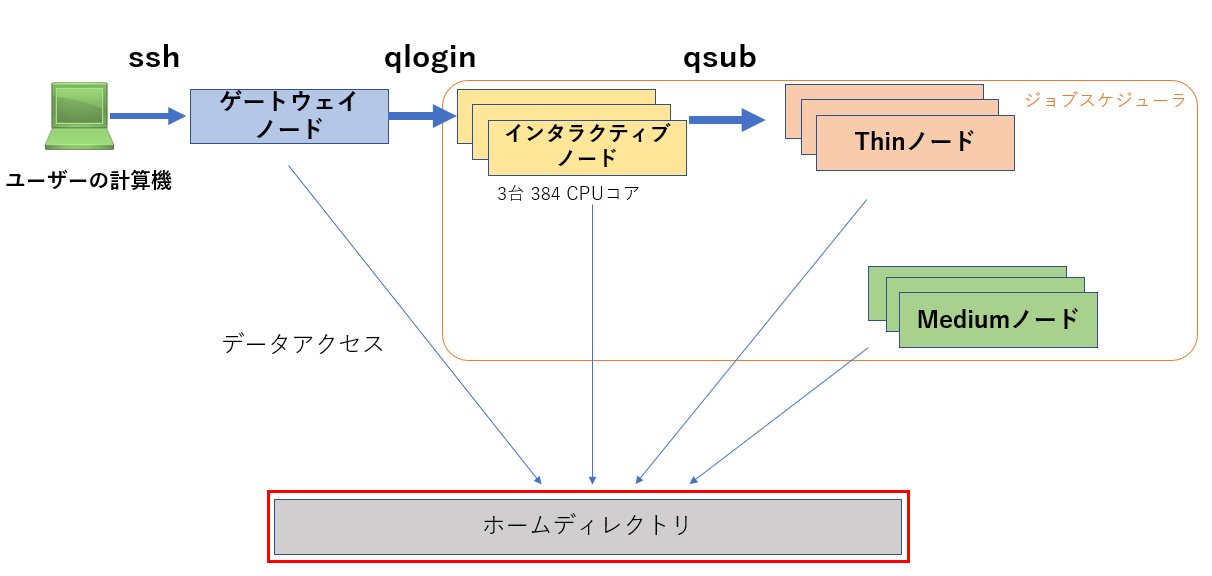
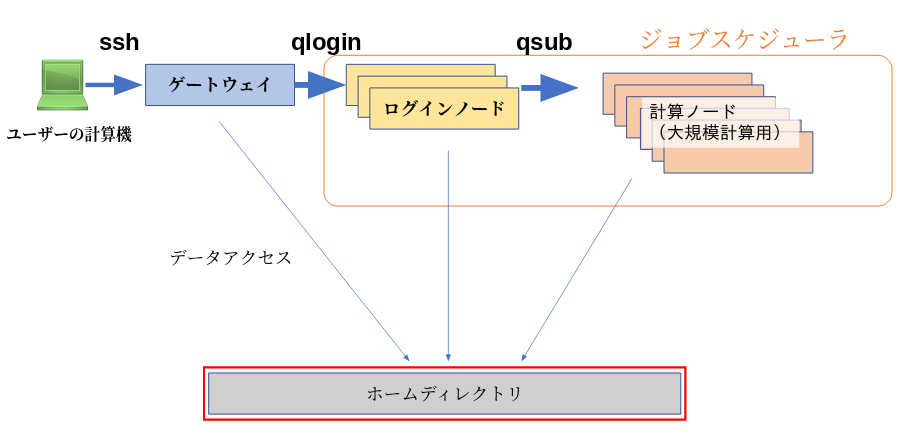
Add GAD documents

diff --git a/sidebars.js b/sidebars.js
@@ -44,8 +44,7 @@ module.exports = {
             "general_analysis_division/ga_introduction",
             "general_analysis_division/ga_application",
             "general_analysis_division/ga_login",
-            "general_analysis_division/ga_interactive",
-            "general_analysis_division/ga_batch",
+            "general_analysis_division/ga_usage",
             "general_analysis_division/ga_transfer",
             "general_analysis_division/ga_lustre",
         ],
@@ -53,8 +52,7 @@ module.exports = {
             "personal_genome_division/pg_introduction",
             "personal_genome_division/pg_application",
             "personal_genome_division/pg_login",
-            "personal_genome_division/pg_interactive",
-            "personal_genome_division/pg_batch",
+            "personal_genome_division/pg_usage",
             "personal_genome_division/pg_transfer",
             "general_analysis_division/ga_lustre",
         ],
@@ -89,7 +87,7 @@ module.exports = {
         ],
         "ユーザー登録・変更": [
             "application/registration",
-            "application/resource_extention",
+            "application/resource_extension",
             "application/ssh_keys",
             "application/renewal",
         ],

diff --git a/docs/general_analysis_division/ga_login.md b/docs/general_analysis_division/ga_login.md
@@ -3,4 +3,94 @@ id: ga_login
 title: "ログイン方法(一般解析区画)"
 ---
 
-SSHログイン
+
+ユーザー登録後、まず最初に必ず[SSH公開鍵の登録](/application/ssh_keys)を行ってください。
+
+
+## ログインの手順
+
+
+1, ターミナルエミュレータを開き、`ssh ユーザ名@ゲートウェイノード名` を入力し、enter を押下します。
+（Windows PowerShellのSSHクライアントの場合も同じです。）
+
+```
+$ ssh [email redacted]
+```
+
+2, "Enter passphrase for key ..."のプロンプトに対し、SSH鍵ペアのパスフレーズを入力し、enter を押下します。
+
+※ 鍵のパスフレーズ入力後に以下のメッセージが出力された場合は、yes を入力してください。
+```
+Are you sure you want to continue connecting (yes/no)?
+```
+
+
+3, `qlogin` コマンドを実行し、ログインノードにログインします。
+
+```
+$ qlogin
+```
+
+パスワード入力後に以下のメッセージが出力された場合は、yes を入力してください。
+```
+Are you sure you want to continue connecting (yes/no)?
+```
+
+
+
+### 実行例
+
+以下のように表示されれば成功です。
+
+```
+$ ssh [email redacted]
+Enter passphrase for key '/home/youraccount/.ssh/id_rsa': 
+Last login: Sun Sep 26 15:03:33 2021 from XXX.XXX.XXX.XXX
+---------------------------------------------------------------------
+Thank you for using NIG supercomputer system.
+This is the gateway node, do not run program here.
+Please use 'qlogin' to login to a login node.
+---------------------------------------------------------------------
+$ qlogin
+Your job 13867668 ("QLOGIN") has been submitted
+waiting for interactive job to be scheduled ...
+Your interactive job 13867668 has been successfully scheduled.
+Establishing /home/geadmin/UGER/utilbin/lx-amd64/qlogin_wrapper session to host at138 ...
+Last login: Sun Sep 26 15:29:09 2021 from gw1
+$ 
+```
+
+うまく行かない場合は、[よくある質問(FAQ)](/faq/faq1)を参照してください。
+
+
+
+## 利用可能メモリに関する注意
+
+
+ログインノードで利用可能なメモリはデフォルトでは4GBです。
+これを増やすには以下のように`qlogin`時にメモリ量を指定してください。
+
+```
+qlogin -l s_vmem=10G -l mem_req=10G
+```
+
+### 参考
+
+- [Javaの使い方](/software/java) > 注意事項 Javaプログラムを起動するとメモリが足りないとのエラーが出る
+- [Singularityの使い方](/software/Singularity) > スパコン上でのイメージのビルド : DockerコンテナイメージからSingularityイメージを生成する
+
+
+
+
+## GPUノードの利用方法
+
+
+GPUを用いたプログラムの開発や動作テストの目的で、GPUを搭載したログインノードを１台用意しています。
+このログインノードを使うには、`-l gpu`オプションを付けて`qlogin`してください。
+
+
+```
+qlogin -l gpu
+```
+
+

diff --git a/docs/general_analysis_division/ga_application.md b/docs/general_analysis_division/ga_application.md
@@ -12,18 +12,26 @@ title: "利用の準備(一般解析区画)"
 - WindowsについてはPowerShellのSSHクライアントまたはWindows Subsystem for Linux version 2(WSL2)等によりアクセス可能です。
 
 
-## ユーザーアカウント申請
+## ユーザーアカウント申請から利用開始までの流れ
+
+
+1. [利用申請書フォーム](https://sc2.ddbj.nig.ac.jp/index.php/ja-new-application)を入力する。
+    - 必ず事前に「[ユーザーアカウント発行基準](/application/application)」及び「[利用規定](/application/use_policy)」をご確認ください。
+    - 遺伝研スパコンでは利用申請時に外為法の定める国内居住者でありかつ大学あるいは国公立研究機関の教員を責任者として指名する必要があります。責任者のアカウント毎にUNIXグループが作られます。
+2. 承認書の到着を待つ。
+    - 受付後、 1週間程度で発送いたします。
+    - 外為法関係など機構にて審査が必要な場合はもう少し時間がかかります。
+3. 承認書で初期パスワードを確認し利用開始する。
+4. SSH公開鍵を登録する。[詳細はこちらをご参照ください](/application/ssh_keys)。
+5. 利用リソースの拡張や課金サービスの利用を希望する場合は[利用計画表をダウンロード](/application/resource_extension)し、記入の上提出する。
 
 
 
-### 個別の申請
+## 団体での利用申請について
 
+講習会やコンソーシアムでの利用など、多数のユーザーの登録をご希望の場合は以下の手順に従ってください。
 
-### 団体の一括申請
+1. 責任者に該当する方がまだ遺伝研スパコンのアカウントをお持ちでない場合、上記の手順に従いアカウントを取得してください。
+2. [利用計画表をダウンロード](/application/resource_extension)し、そこにユーザーの情報をまとめて書いて提出してください。（その際に利用目的、利用するリソース量についてもご記載ください。）
 
-### リソース拡張申請（個別、団体とも）
-
-### 課金サービスについて
-
-## SSH公開鍵の登録
 

diff --git a/docs/general_analysis_division/ga_usage.md b/docs/general_analysis_division/ga_usage.md
@@ -1,0 +1,19 @@
+---
+id: ga_usage
+title: 使用方法（一般解析区画）
+---
+
+
+
+ログインノード上では通常のLinuxシステムとして開発作業や解析作業を行うことが可能です。
+
+- 開発環境などについては[ソフトウェア](/software/software)の「開発環境・ライブラリ」の項目を参考にしてください。
+- ログインノードでの作業は最長3日間です。qloginしてから3日経つと強制的にログアウトされます。
+
+
+長時間かかる計算、CPUやメモリを大規模に使う計算は、`qsub`コマンドにより計算ノード(compute node)上のバッチジョブ、並列ジョブ、アレイジョブとして実行してください。
+
+- [ジョブスケジューラ Univa Grid Engine (UGE)の使い方についてはこちら](/software/univa_grid_engine)をご参照ください。
+- 遺伝研スパコンで用意されているUGEキューについては[概要（一般解析区画)](/general_analysis_division/ga_introduction)をご参照ください。
+- その他、利用可能なソフトウェアについては[システム構成>ソフトウェア](/software/software)をご参照ください。
+- 具体的な解析方法などについては[活用方法](/advance_guides/advanced_guide)をご参照ください。

diff --git a/docs/personal_genome_division/pg_introduction.md b/docs/personal_genome_division/pg_introduction.md
@@ -3,4 +3,12 @@ id: pg_introduction
 title: "概要（個人ゲノム解析区画）"
 ---
 
-VPNつかってログインします。
+
+
+個人ゲノム解析システムの利用にあたりましては遺伝研スパコン利用規程のページにある各文書をご一読いただき、遵守していただきますようお願いいたします。
+
+
+遺伝研スパコン個人ゲノム解析システムは以下のセキュリティーガイドラインを遵守しております。
+
+- NBDCヒトデータ取扱いセキュリティガイドラインおよびNBDCヒトデータグループ共有データ取扱いセキュリティガイドライン チェックリスト（「機関外サーバ」運用責任者向け）
+

diff --git a/docs/personal_genome_division/pg_usage.md b/docs/personal_genome_division/pg_usage.md
@@ -1,0 +1,6 @@
+---
+id: pg_usage
+title: "使い方（個人ゲノム解析区画）"
+---
+
+VPNつかってログインします。

diff --git a/docs/personal_genome_division/pg_application.md b/docs/personal_genome_division/pg_application.md
@@ -1,6 +1,6 @@
 ---
 id: pg_application
-title: "利用申請等（個人ゲノム解析区画）"
+title: "利用の準備（個人ゲノム解析区画）"
 ---
 
-Hello
+

diff --git a/docs/application/resource_extension.md b/docs/application/resource_extension.md
@@ -1,5 +1,5 @@
 ---
-id: resource_extention
+id: resource_extension
 title: "利用リソースの拡張申請"
 ---
 